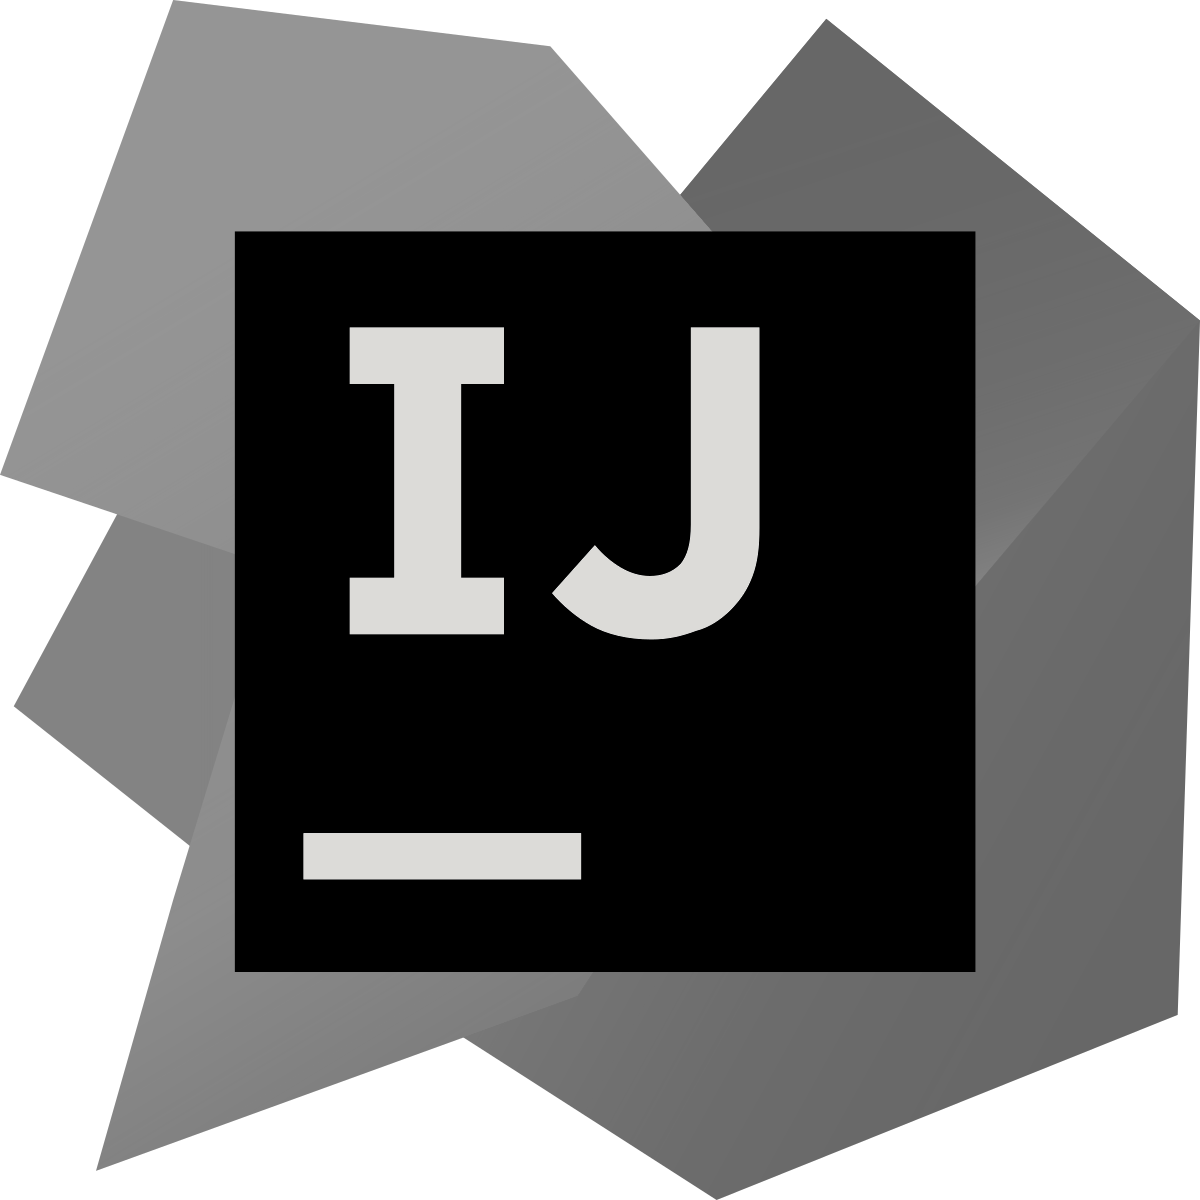
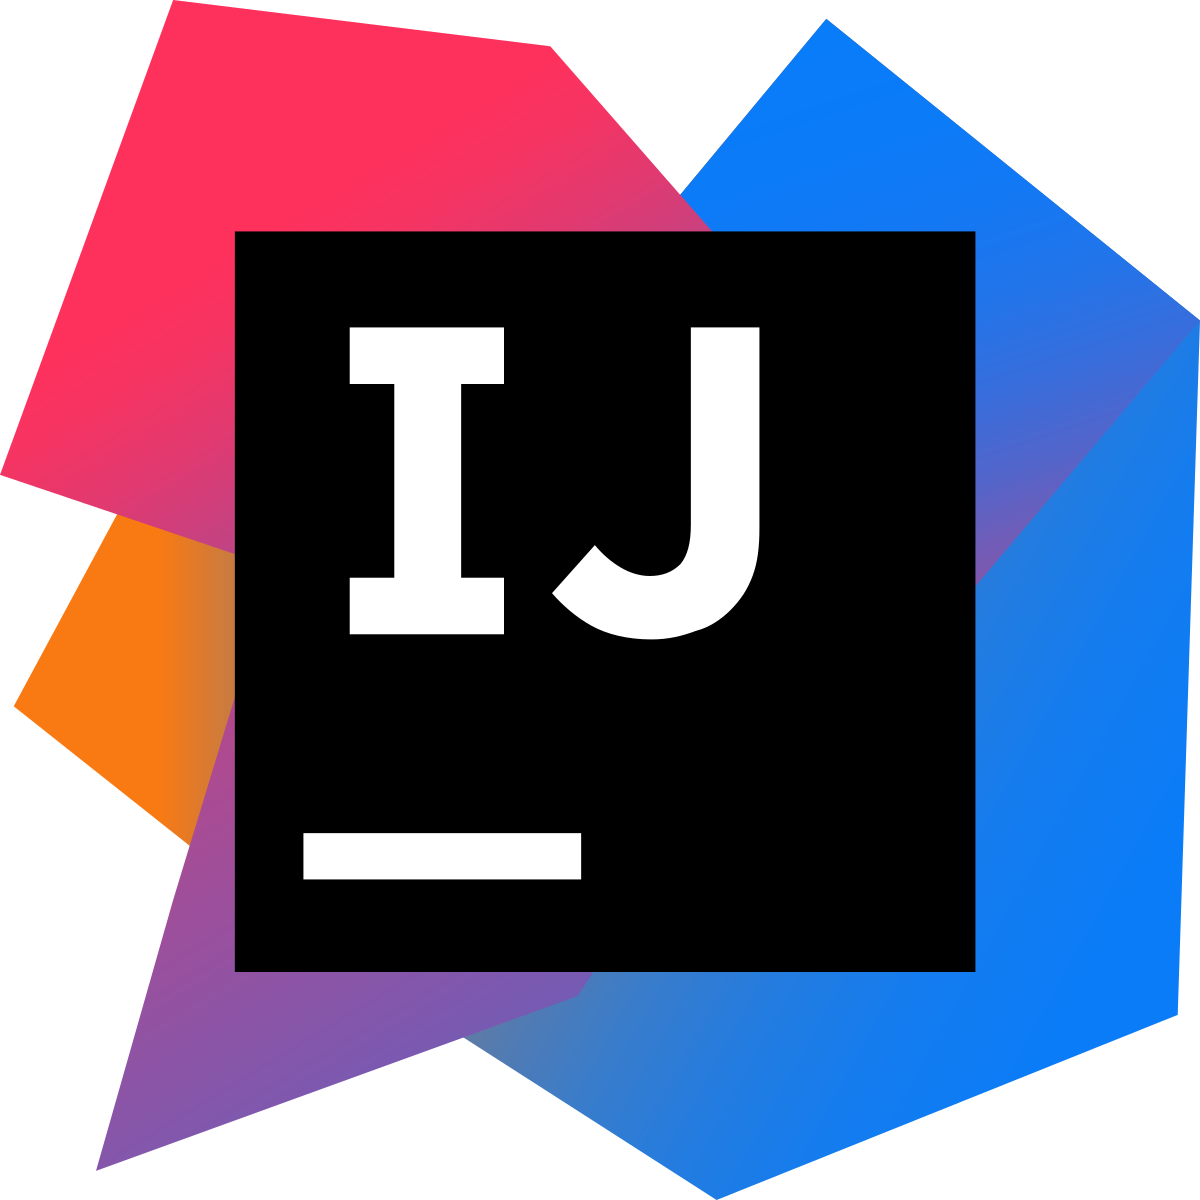
Footer Arrumado

diff --git a/index.html b/index.html
@@ -83,23 +83,23 @@
     <section class="mt-5 grid min-h-full flex flex-col justify-center px-6 py-24 sm:py-10 lg:px-8 background-secondary scroll-mt-[-130px]" id="sobre">
         <div class="flex space-x-16 overflow-hidden">
             <div class="flex space-x-16 animate-loop-scroll">
-                <img src="assets/slide/spring-boot.png" class="max-w-none" alt="Spring Boot">
-                <img src="assets/slide/js.png" class="max-w-none" alt="JavaScript">
-                <img src="assets/slide/postgres.svg.png" class="max-w-none" alt="PostgreSQL">
-                <img src="assets/slide/mysql.png" class="max-w-none" alt="MySQL">
-                <img src="assets/slide/aws.png" class="max-w-none" alt="AWS">
-                <img src="assets/slide/IntelliJ.png" class="max-w-none" alt="IntelliJ">
-                <img src="assets/slide/postman.png" class="max-w-none" alt="Postman">
+                <img src="assets/slide/spring-boot.png" class="max-w-none grayscale hover:grayscale-0" alt="Spring Boot">
+                <img src="assets/slide/js.png" class="max-w-none grayscale hover:grayscale-0" alt="JavaScript">
+                <img src="assets/slide/postgres.png" class="max-w-none grayscale hover:grayscale-0" alt="PostgreSQL">
+                <img src="assets/slide/mysql.png" class="max-w-none grayscale hover:grayscale-0" alt="MySQL">
+                <img src="assets/slide/aws.png" class="max-w-none grayscale hover:grayscale-0" alt="AWS">
+                <img src="assets/slide/IntelliJ.png" class="max-w-none grayscale hover:grayscale-0" alt="IntelliJ">
+                <img src="assets/slide/postman.png" class="max-w-none grayscale hover:grayscale-0" alt="Postman">
             </div>
 
             <div class="flex space-x-16 animate-loop-scroll" aria-hidden="true">
-                <img src="assets/slide/spring-boot.png" class="max-w-none" alt="Spring Boot">
-                <img src="assets/slide/js.png" class="max-w-none" alt="JavaScript">
-                <img src="assets/slide/postgres.svg.png" class="max-w-none" alt="PostgreSQL">
-                <img src="assets/slide/mysql.png" class="max-w-none" alt="MySQL">
-                <img src="assets/slide/aws.png" class="max-w-none" alt="AWS">
-                <img src="assets/slide/IntelliJ.png" class="max-w-none" alt="IntelliJ">
-                <img src="assets/slide/postman.png" class="max-w-none" alt="Postman">
+                <img src="assets/slide/spring-boot.png" class="max-w-none grayscale hover:grayscale-0" alt="Spring Boot">
+                <img src="assets/slide/js.png" class="max-w-none grayscale hover:grayscale-0" alt="JavaScript">
+                <img src="assets/slide/postgres.png" class="max-w-none grayscale hover:grayscale-0" alt="PostgreSQL">
+                <img src="assets/slide/mysql.png" class="max-w-none grayscale hover:grayscale-0" alt="MySQL">
+                <img src="assets/slide/aws.png" class="max-w-none grayscale hover:grayscale-0" alt="AWS">
+                <img src="assets/slide/IntelliJ.png" class="max-w-none grayscale hover:grayscale-0" alt="IntelliJ">
+                <img src="assets/slide/postman.png" class="max-w-none grayscale hover:grayscale-0" alt="Postman">
             </div>
         </div>
     </section>
@@ -116,14 +116,14 @@
 
 
                 <div class="mb-3 flex space-x-4 justify-around h-8 object-contain md:justify-between">
-                    <div class="icon-tooltip"><img src="assets/slide/java.png" alt="Java"><span class="tooltip-text">Java</span></div>
-                    <div class="icon-tooltip"><img src="assets/slide/spring-boot.png" alt="Spring Boot"><span class="tooltip-text">Spring Boot</span></div>
-                    <div class="icon-tooltip"><img src="assets/slide/js.png" alt="JavaScript"><span class="tooltip-text">JavaScript</span></div>
-                    <div class="icon-tooltip"><img src="assets/slide/aws.png" alt="AWS"><span class="tooltip-text">AWS</span></div>
-                    <div class="icon-tooltip"><img src="assets/slide/postgres.svg.png" alt="PostgreSQL"><span class="tooltip-text">PostgreSQL</span></div>
-                    <div class="icon-tooltip"><img src="assets/slide/mysql.png" alt="MySQL"><span class="tooltip-text">MySQL</span></div>
-                    <div class="icon-tooltip"><img src="assets/slide/IntelliJ.png" alt="IntelliJ IDEA"><span class="tooltip-text">IntelliJ IDEA</span></div>
-                    <div class="icon-tooltip"><img src="assets/slide/postman.png" alt="Postman"><span class="tooltip-text">Postman</span></div>
+                    <div class="icon-tooltip"><img src="assets/slide/java.png" class="grayscale hover:grayscale-0" alt="Java"><span class="tooltip-text ">Java</span></div>
+                    <div class="icon-tooltip"><img src="assets/slide/spring-boot.png" class="grayscale hover:grayscale-0"  alt="Spring Boot"><span class="tooltip-text">Spring Boot</span></div>
+                    <div class="icon-tooltip"><img src="assets/slide/js.png" class="grayscale hover:grayscale-0"  alt="JavaScript"><span class="tooltip-text">JavaScript</span></div>
+                    <div class="icon-tooltip"><img src="assets/slide/aws.png" class="grayscale hover:grayscale-0" alt="AWS"><span class="tooltip-text">AWS</span></div>
+                    <div class="icon-tooltip"><img src="assets/slide/postgres.png" class="grayscale hover:grayscale-0"  alt="PostgreSQL"><span class="tooltip-text">PostgreSQL</span></div>
+                    <div class="icon-tooltip"><img src="assets/slide/mysql.png" class="grayscale hover:grayscale-0"  alt="MySQL"><span class="tooltip-text">MySQL</span></div>
+                    <div class="icon-tooltip"><img src="assets/slide/IntelliJ.png" class="grayscale hover:grayscale-0"  alt="IntelliJ IDEA"><span class="tooltip-text">IntelliJ IDEA</span></div>
+                    <div class="icon-tooltip"><img src="assets/slide/postman.png" class="grayscale hover:grayscale-0"  alt="Postman"><span class="tooltip-text">Postman</span></div>
                 </div>
             </div>
         </div>
@@ -132,16 +132,20 @@
 
 
 <footer class="p-4 md:p-8 lg:p-3 bg-[var(--secondary-background)]">
-    <div class="mx-auto max-w-screen-xl text-center">
+    <div class="mx-auto max-w-screen-xl text-center flex space-x-4 justify-around">
         <a href="#" class="flex justify-center items-center">
             <img src="assets/corvoBrancoLogo(f8f8f8).png" class="h-8 object-contain mb-2" alt="Logo">
         </a>
 
-        <span class="text-sm text-gray-500 sm:text-center hover:text-gray-100">© 2025 <a href="#" class="hover:underline">oryanEnd</a></span>
+        <div class="flex space-x-4">
+            <a href="#sobre" class="rounded-md px-3 py-5 text-sm link-text-navbar hover:underline underline-offset-8" style="color: var(--color-text)">Sobre</a>
+            <a href="#" class="rounded-md px-3 py-5 text-sm link-text-navbar hover:underline underline-offset-8" style="color: var(--color-text)">Projetos</a>
+            <a href="#" class="rounded-md px-3 py-5 text-sm link-text-navbar hover:underline underline-offset-8" style="color: var(--color-text)">Contato</a>
+        </div>
 
-        <ul class="mt-3 flex space-x-4 justify-center items-center mb-6">
-            <li><a href="#"><img class="h-5 object-contain opacity-50 hover:opacity-100" src="assets/footer/linkedin-icon.svg" alt="LinkedIn"></a></li>
-            <li><a href="#"><img class="h-5 object-contain opacity-50 hover:opacity-100" src="assets/footer/github-white-icon.svg" alt="GitHub"></a></li>
+        <ul class="mt-3 flex space-x-4 justify-center items-center mb-4">
+            <li><a href="#"><img class="h-5 object-contain opacity-50 hover:opacity-100" src="assets/footer/linkedIn-icon.png" alt="LinkedIn"></a></li>
+            <li><a href="#"><img class="h-5 object-contain opacity-50 hover:opacity-100" src="assets/footer/github-icon.png" alt="GitHub"></a></li>
         </ul>
     </div>
 </footer>
